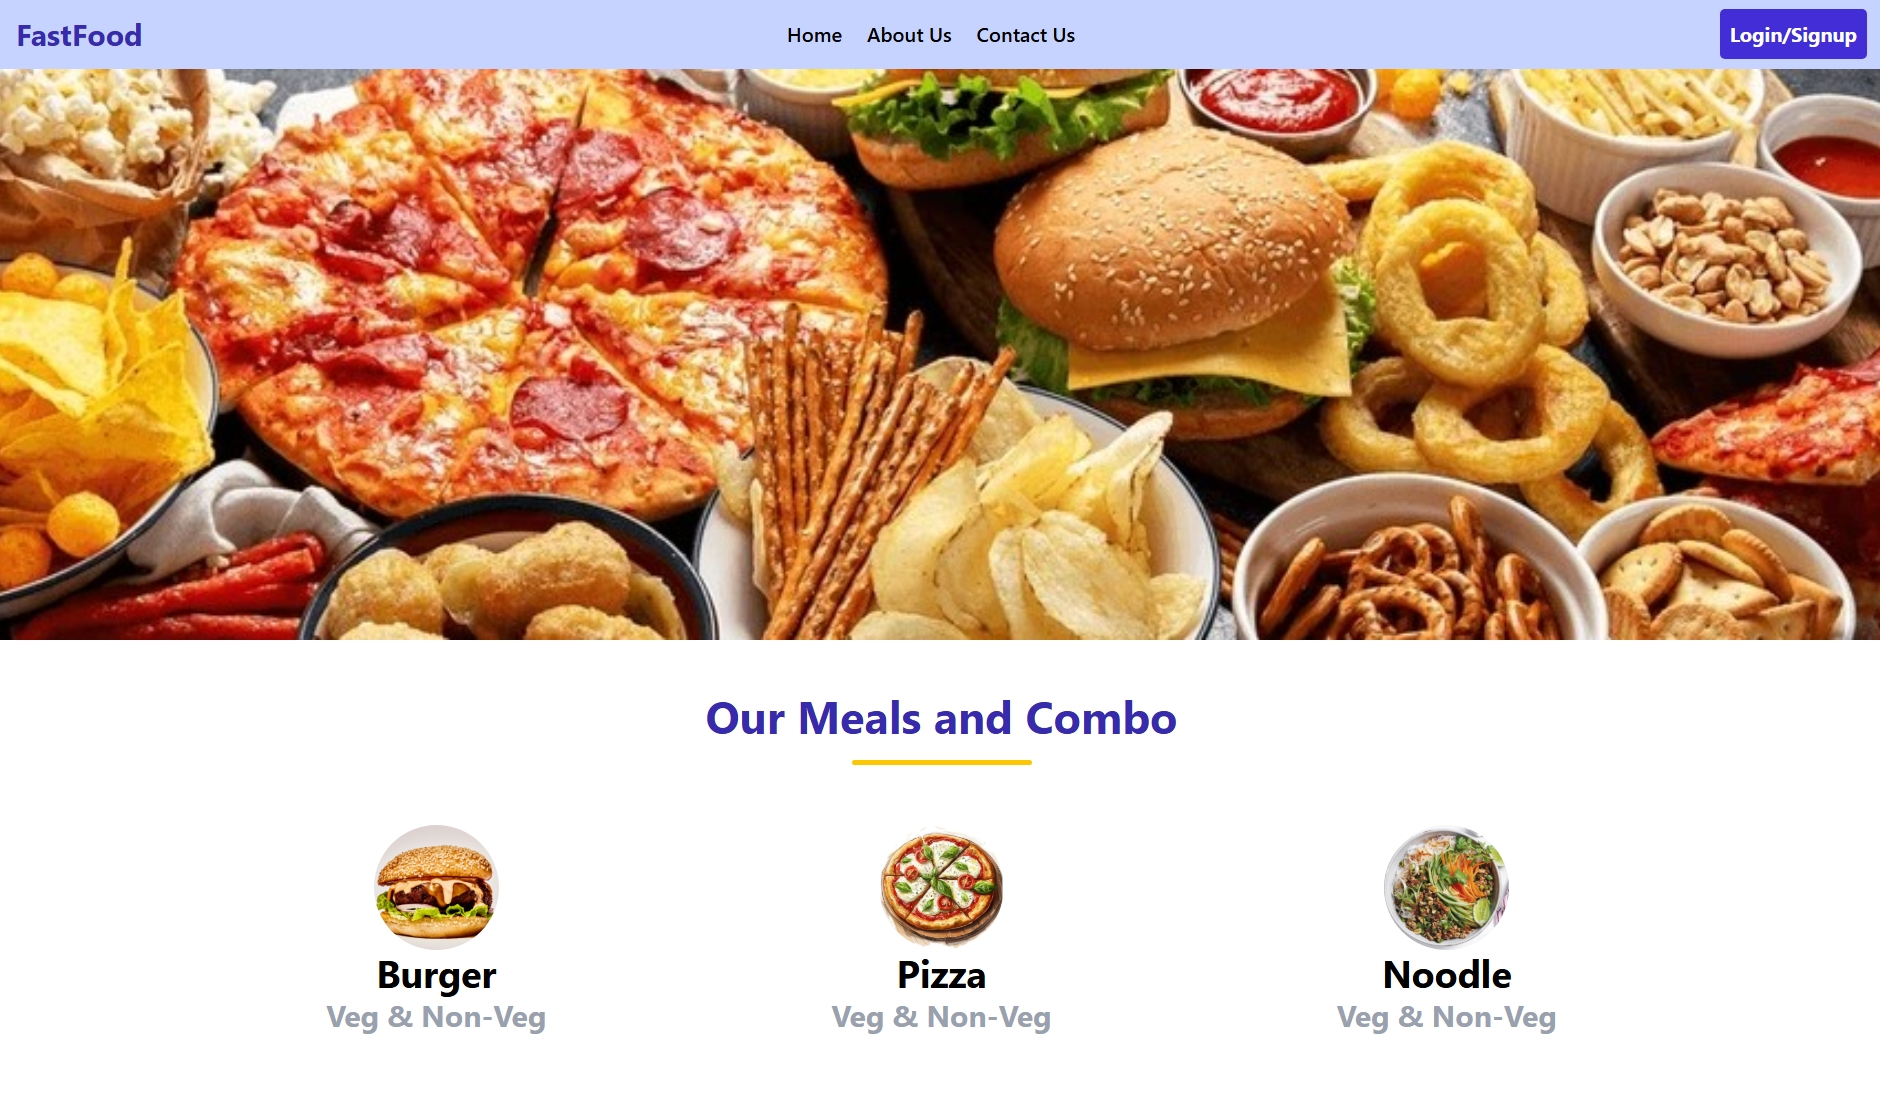
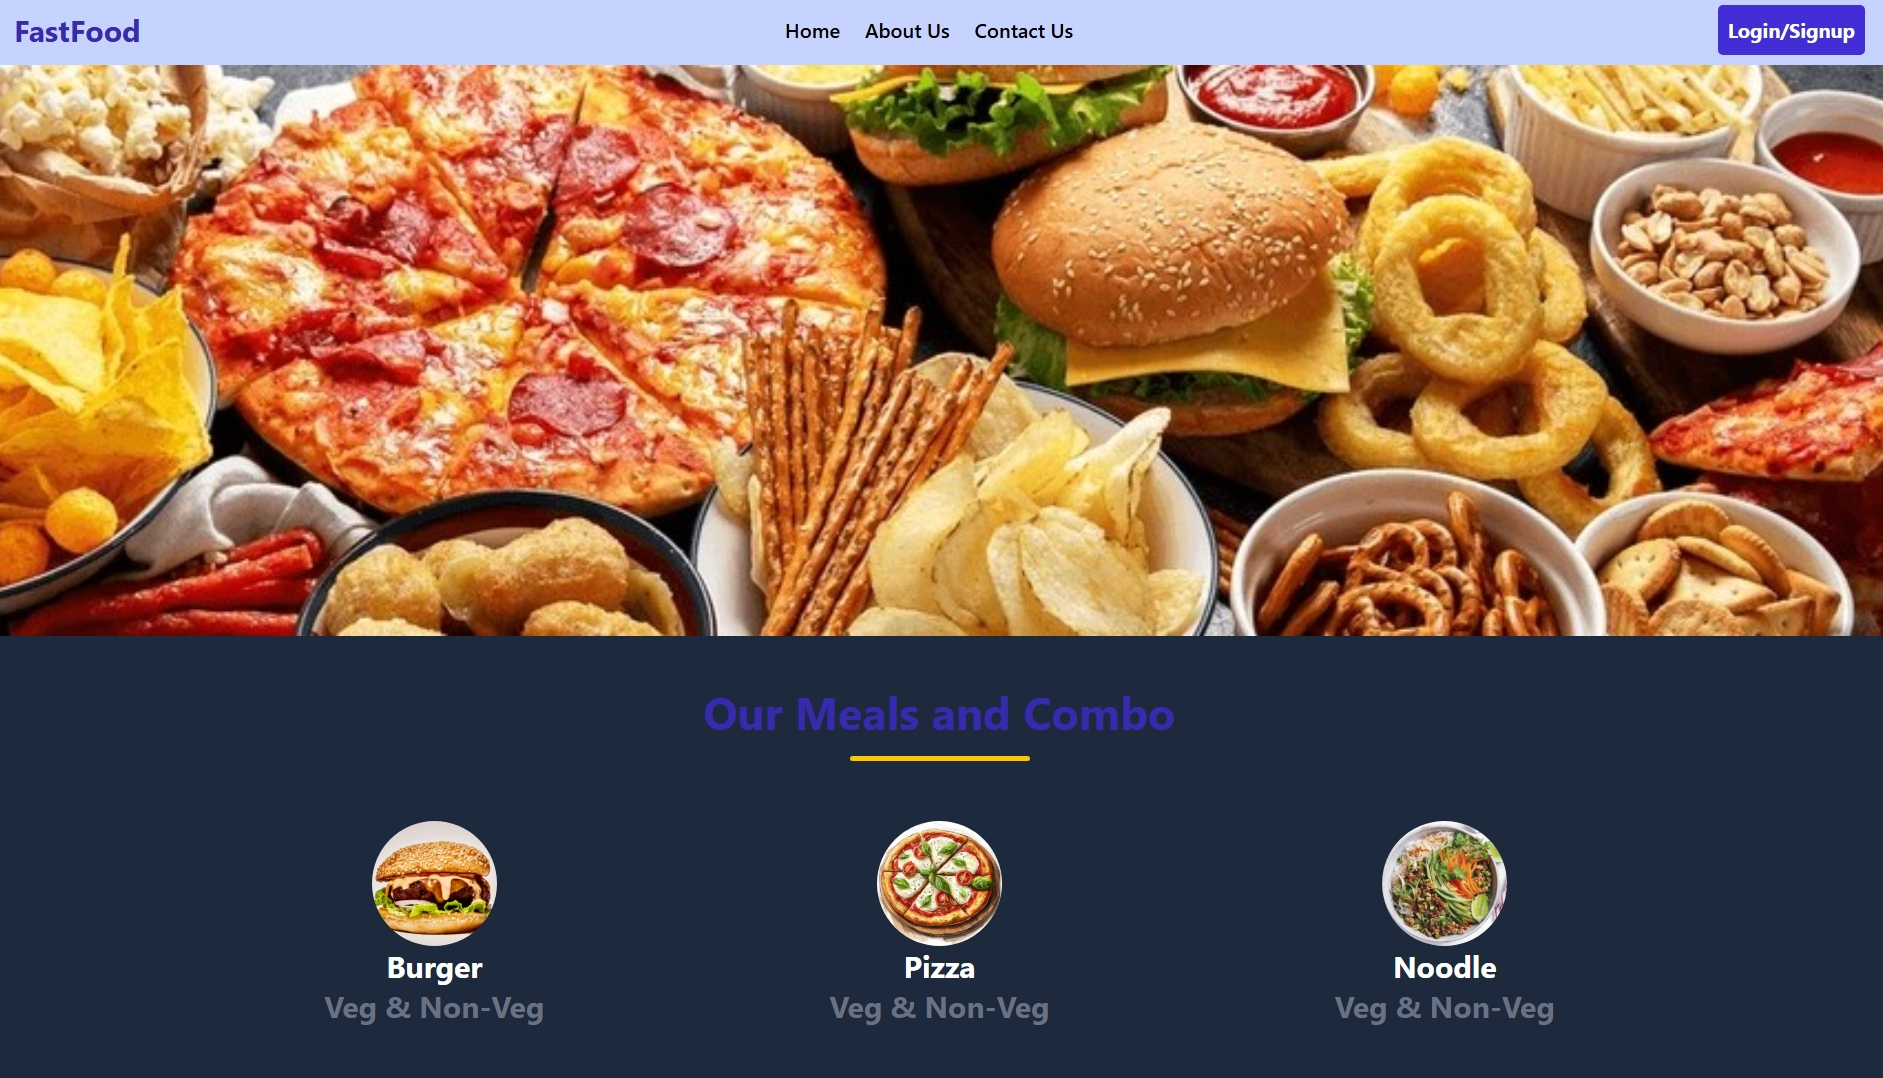
Updated project

diff --git a/src/index.html b/src/index.html
@@ -6,6 +6,7 @@
   <link href="./output.css" rel="stylesheet">
   <title>Tailwind Website</title>
 </head>
+ <body class="bg-slate-800">
    <!-- Navbaar -->
     <nav class="w-full h-14 bg-indigo-200 flex justify-between px-4 md:px-4 items-center">
         <div class="text-2xl text-indigo-800 font-bold">FastFood
@@ -52,24 +53,24 @@
            
       <div class="w-46 flex flex-col items-center mb-12">
         <img class="w-25 h-auto rounded-full" src="../images/burger.webp" alt="">
-        <p class="text-3xl font-bold text-black">Burger</p>
-        <p class="text-2xl font-bold text-gray-400">Veg & Non-Veg</p>
+        <p class="text-2xl font-bold text-white">Burger</p>
+        <p class="text-2xl font-bold text-gray-500">Veg & Non-Veg</p>
       </div>
 
 
 
       <div class="w-46 flex flex-col items-center mb-12">
         <img class="w-25 h-auto rounded-full" src="../images/pizza.jpg" alt="">
-        <p class="text-3xl font-bold text-black">Pizza</p>
-        <p class="text-2xl font-bold text-gray-400">Veg & Non-Veg</p>
+        <p class="text-2xl font-bold text-white">Pizza</p>
+        <p class="text-2xl font-bold text-gray-500">Veg & Non-Veg</p>
       </div>
 
 
 
       <div class="w-46 flex flex-col items-center mb-12">
         <img class="w-25 h-auto rounded-full" src="../images/noodlebown.jpg" alt="">
-        <p class="text-3xl font-bold text-black">Noodle</p>
-        <p class="text-2xl font-bold text-gray-400">Veg & Non-Veg</p>
+        <p class="text-2xl font-bold text-white">Noodle</p>
+        <p class="text-2xl font-bold text-gray-500">Veg & Non-Veg</p>
       </div>
 
 
@@ -85,7 +86,7 @@
 
          <!-- Foother Starts here -->
 
-         <footer class="w-full bg-gray-900 px-4 text-white pt-8 flex flex-col md:flex-row flex-wrap justify-between md:px-12">
+         <footer class="w-full bg-gray-600 px-4 text-white pt-8 flex flex-col md:flex-row flex-wrap justify-between md:px-12">
 
           <div>
             <img class="w-25 h-auto" src="../images/logo.png" alt="">
@@ -141,7 +142,7 @@
          </footer>
 
 
-  <div class="w-[90%] h-5 border-20 border-gray-900 ml-16 mt-4 mb-3 flex items-center justify-center" >
+  <div class="w-[90%] h-5 border-20 border-gray-650 ml-16 mt-4 mb-3 flex items-center justify-center" >
     <p class="text-white">fastfood ⓒ 2026 | All rights reserved.</p>
   </div>
 

diff --git a/src/output.css b/src/output.css
@@ -17,8 +17,16 @@
     --color-indigo-700: oklch(45.7% 0.24 277.023);
     --color-indigo-800: oklch(39.8% 0.195 277.366);
     --color-indigo-900: oklch(35.9% 0.144 278.697);
+    --color-slate-700: oklch(37.2% 0.044 257.287);
+    --color-slate-800: oklch(27.9% 0.041 260.031);
+    --color-slate-900: oklch(20.8% 0.042 265.755);
+    --color-slate-950: oklch(12.9% 0.042 264.695);
+    --color-gray-50: oklch(98.5% 0.002 247.839);
     --color-gray-400: oklch(70.7% 0.022 261.325);
     --color-gray-500: oklch(55.1% 0.027 264.364);
+    --color-gray-600: oklch(44.6% 0.03 256.802);
+    --color-gray-700: oklch(37.3% 0.034 259.733);
+    --color-gray-800: oklch(27.8% 0.033 256.848);
     --color-gray-900: oklch(21% 0.034 264.665);
     --color-black: #000;
     --color-white: #fff;
@@ -390,8 +398,14 @@
     border-bottom-style: var(--tw-border-style);
     border-bottom-width: 20px;
   }
+  .border-gray-50 {
+    border-color: var(--color-gray-50);
+  }
   .border-gray-500 {
     border-color: var(--color-gray-500);
+  }
+  .border-gray-800 {
+    border-color: var(--color-gray-800);
   }
   .border-gray-900 {
     border-color: var(--color-gray-900);
@@ -402,6 +416,15 @@
   .border-b-red-200 {
     border-bottom-color: var(--color-red-200);
   }
+  .bg-gray-600 {
+    background-color: var(--color-gray-600);
+  }
+  .bg-gray-700 {
+    background-color: var(--color-gray-700);
+  }
+  .bg-gray-800 {
+    background-color: var(--color-gray-800);
+  }
   .bg-gray-900 {
     background-color: var(--color-gray-900);
   }
@@ -410,6 +433,18 @@
   }
   .bg-indigo-700 {
     background-color: var(--color-indigo-700);
+  }
+  .bg-slate-700 {
+    background-color: var(--color-slate-700);
+  }
+  .bg-slate-800 {
+    background-color: var(--color-slate-800);
+  }
+  .bg-slate-900 {
+    background-color: var(--color-slate-900);
+  }
+  .bg-slate-950 {
+    background-color: var(--color-slate-950);
   }
   .p-1 {
     padding: var(--spacing);
@@ -485,6 +520,9 @@
   }
   .text-indigo-800 {
     color: var(--color-indigo-800);
+  }
+  .text-indigo-900 {
+    color: var(--color-indigo-900);
   }
   .text-white {
     color: var(--color-white);
